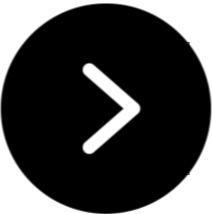
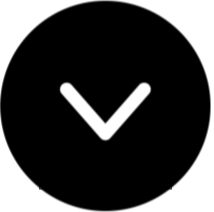
typos

diff --git a/src/components/Coding.jsx b/src/components/Coding.jsx
@@ -1,12 +1,14 @@
 import '../styles/Coding.css';
 import CarouselProjects from './CarouselProjects';
 import CallToAction from './CallToAction';
+import projects from "../assets/projects-list.json";
 import cvImage from '../assets/images/cv.png'
 import { Link } from 'react-router-dom';
-import about from '../mySelf'
+import about from '../mySelf';
 
 export default function Coding() {
 
+  const techs = [... new Set (projects.map( element => element.techs).flat())]
 
   return (
   <section className='content-page'>
@@ -14,12 +16,12 @@ export default function Coding() {
     <div className='width-content'>
     
       <div className='generic-box'>
+
         <div className='box-title'>
           About
           <Link to="/cv/coding" >     
             <img src={cvImage} className='cv-coding'/>
           </Link>
-
         </div>
       
         <div className='about-info'>
@@ -30,7 +32,7 @@ export default function Coding() {
           })
           }
 
-            <div className='info-extra'>
+          <div className='info-extra'>
               <div> <b>What I´m good at...</b>
                   <p>Logical reasoning. I like to solve problems that require creativity.</p>
                   <p>I´m not afraid to undertake complex projects and take on new challenges.</p>
@@ -38,9 +40,26 @@ export default function Coding() {
               </div>
               <div> <b>What I´m bad at...</b>
                   <p>When I speak German, the portraits of Goethe all over Germany cry out in pain.</p>
-                  <p>CSS has caused me to have numerous anger and panic attacks.</p>
+                  <p>CSS has caused me to have numerous rage attacks.</p>
               </div>
+          </div>
+
+          <div className='techs-container'>
+            Frameworks & Libraries:
+
+            <div className='techs-list'>
+              {
+              techs.map( (element, index) => {
+                return (
+                  <div className='tech-item' key={index}>
+                    {element}
+                  </div>
+                )
+              })
+              }
             </div>
+
+          </div>
           
         </div>    
         
@@ -48,8 +67,8 @@ export default function Coding() {
       </div>
 
       <div className='generic-box'>
-        <div className='box-title'>Projects</div>
-        <CarouselProjects/>
+        <div className='box-title'>Projects&nbsp;<span style={{fontSize: ".4em"}}>(sorted by complexity)</span></div>
+        <CarouselProjects projects={projects}/>
       </div>
 
       <div className='generic-box'>

diff --git a/src/components/CarouselProjects.jsx b/src/components/CarouselProjects.jsx
@@ -1,13 +1,12 @@
 import "react-responsive-carousel/lib/styles/carousel.min.css";
 import "../styles/Carousel.css";
 import { Carousel } from "react-responsive-carousel";
-import projects from "../assets/projects-list.json";
 import github from "../assets/images/github.png";
 import open from "../assets/images/open2.png";
 
 import { useEffect, useState } from "react";
 
-function CarouselProjects() {
+function CarouselProjects({projects}) {
   const [size, setSize] = useState(0);
 
   useEffect(() => {
@@ -43,7 +42,6 @@ return (
     <Carousel
       infiniteLoop={true}
       interval={5000}
-      autoPlay={true}
       stopOnHover={true}
       renderThumbs={renderThumbs}
       showStatus={false}
@@ -53,12 +51,21 @@ return (
       <div key={index} className="project-card">
         
         <div className="project-header">
+          
           <div style={{display:"flex", alignItems:""}}>
             <a href={project.deployLink} target="_blank">{project.title}</a>
             <a href={project.deployLink} target="_blank" style={{marginTop:"5px"}}><div id="open-container"><img style={{width:"100%", hight:"auto"}} src={open} alt="open-icon"/></div></a>
           </div>
 
           <a href={project.githubLink} target="_blank" id="github-container" ><img id="github-logo"src={github} alt="githubIcon"/></a>
+        </div>
+
+        <div className="slide-footer">
+            {project.techs.map( (element, index) => {
+              return (
+                <div className="tech-item" key={index}>{element}</div>
+              )
+            })}
         </div>
 
         <div className="body-project-space">
@@ -72,18 +79,15 @@ return (
               return(
                <li className="paragraph" key={index}>{paragraph}</li>
               )
-            })
+              })
             }
+            {project?.highlights && (
+              <div className="highlights"> <b>Highlights:&nbsp; </b> {project.highlights.map(element => (
+                  <>{element}. </>
+                ))}
+              </div>
+             )}
           </ul>
-
-        </div>
-
-        <div className="slide-footer">
-            {project.techs.map( (element, index) => {
-              return (
-                <div className="tech-item" key={index}>{element}</div>
-              )
-            })}
         </div>
 
       </div>

diff --git a/src/components/Academia.jsx b/src/components/Academia.jsx
@@ -38,7 +38,7 @@ export default function Academia() {
 
         <div className='personal-header' onClick={ () => {setIsAbout(prev => !prev)}}>
           <h1>About</h1>
-          <img src={arrow} className={isAbout? 'rotate-arrow': ''}/>
+          <img src={arrow} className={isAbout? 'rotate-arrow': ''} style={{transition:"1s"}}/>
           <Link to="/cv/academia" className="link-cv-academia">     
             <img src={cvImage} className='cv-academia' style={{height:"35px", width: "auto", marginTop:"15px"}} />
           </Link>
@@ -65,20 +65,20 @@ export default function Academia() {
        
         <div className='list-type-box' onClick={() => setBookOpen(prev => !prev)}>
           <h2>Books</h2>
-          <img src={arrow} className={bookOpen? "rotate-arrow": ""}/>
+          <img src={arrow} className={bookOpen? "rotate-arrow": ""} style={{transition:"1s"}}/>
         </div>
         {bookOpen && <ul>{books.map((item, index) => renderItem({ item, index }))}</ul> }
 
 
         <div className='list-type-box' onClick={() => setPeerOpen(prev => !prev)}>
           <h2>Peer-reviewed articles</h2>
-          <img src={arrow} className={peerOpen? "rotate-arrow": "" }/>
+          <img src={arrow} className={peerOpen? "rotate-arrow": "" } style={{transition:"1s"}}/>
         </div>
         {peerOpen && <ul>{peerArticles.map((item, index) => renderItem({ item, index }))}</ul> }
 
         <div className='list-type-box' onClick={() => setArticleOpen(prev => !prev)}>
           <h2>Other articles</h2>
-          <img src={arrow} className={articleOpen? "rotate-arrow": ""} />
+          <img src={arrow} className={articleOpen? "rotate-arrow": ""} style={{transition:"1s"}}/>
         </div>
         {articleOpen && <ul>{otherArticles.map((item, index) => renderItem({ item, index }))}</ul>}
 

diff --git a/src/mySelf.js b/src/mySelf.js
@@ -1,8 +1,8 @@
 const about = [
-  "Full-Stack developer with 1 year hands-on experience. I have deployed 6 web projects, combining my interests and background with my programming skills.",
-  "I am passionate about the most diverse topics: from Plato's Republic to Javascript, the functioning of the financial system or the process of monetary creation.",
+  "Full-Stack developer with 1 year hands-on experience. I have created and deployed 6 web projects.",
   "I have a master's degree in philosophy and a PhD in sociology. I love to write. I am the author of a book and several articles of political and social analysis.",
-  "Artificial intelligence made it harder for me to make a living as a sociologist, so I switched to a field where artificial intelligence will make it harder for me to make a living as a programmer.",
+  "Artificial intelligence made it harder for me to make a living as a translator, so I switched to a field where artificial intelligence will make it harder for me to make a living as a programmer.",
+  "I am passionate about the most diverse topics: from Plato's Republic to Javascript, the functioning of the financial system, cryptocurrencies or the process of monetary creation.",
 ]
 
 export default about;

diff --git a/src/styles/Carousel.css b/src/styles/Carousel.css
@@ -3,6 +3,9 @@
   background-color: #0d1121;
 }
 
+.project-card {
+  padding-bottom: 30px;
+}
 .project-header {
   position: relative;
   font-size: 30px;
@@ -56,7 +59,6 @@
   color: white;
   line-height: 1.5;
   font-weight: 300;
-  margin-top: 20px;
 }
 
 .image-project-container {
@@ -91,16 +93,24 @@
   }
 }
 
+.highlights {
+  display: flex;
+  margin: 10px 0 10px -20px; 
+  font-weight: 200;
+}
+
 .slide-footer {
   display: flex;
   flex-wrap: wrap;
   justify-content: end;
-  padding: 0 10px 30px 10px;
+  padding: 0 10px 0px 10px;
   margin: 5px 0;
+  font-size: 1em;
+  font-weight: 300;
 }
 
 .tech-item {
-  padding: 4px 10px;
+  padding: 0px 10px;
   font-size: 14px;
   background-color: #036BDF;
   color: white;
@@ -126,8 +136,6 @@
     width: 10px;
     margin-left: 3px;
     margin-top: -3px;
-
-
   }
   #github-logo {
     height: 20px;
@@ -155,6 +163,13 @@
     font-size: 11px;
     padding: 2px 5px;
   }
-  
+}
+
+@media screen and (max-width:770px) {
+  .tech-item {
+    font-size: 10px;
+    padding: 1px 3px;
+  }
+
 
 }

diff --git a/src/styles/Coding.css b/src/styles/Coding.css
@@ -11,8 +11,8 @@
 .box-title {
   margin-bottom: 10px;
   display: flex;
-  align-items: end;
-  font-size: 40px;
+  align-items: last baseline;
+  font-size: 50px;
   font-weight: 400;
 }
 .box-title h1 {
@@ -51,6 +51,16 @@
 .info-extra p {
   margin: 10px 20px;
   font-size: 18px;
+}
+.techs-container {
+  margin-top: 10px;
+  font-weight: 700;
+}
+.techs-list {
+  margin-top: 0px;
+  display: flex;
+  flex-wrap: wrap;
+  font-weight: 100;
 }
 
 .carousel-container {
@@ -129,6 +139,9 @@
 }
 
 @media screen and (max-width: 600px) {
+  .box-title{
+    font-size: 30px;
+  }
   .input-wrap {
     display: block;
   }

diff --git a/src/index.css b/src/index.css
@@ -45,7 +45,7 @@ body {
 
 .side-open {
   flex-direction: column;
-  background-color: #170037;
+  background-color: #46e70246;
   padding: 0 10px;
   transform: translate(10px, -10px);
 }

diff --git a/src/styles/Academia.css b/src/styles/Academia.css
@@ -85,8 +85,9 @@ h6 {
   margin-left: 15px;
   padding-top: 3px;
 }
+
 .rotate-arrow {
-  transform: rotate(90deg);
+  transform: rotate(180deg);
 }
 
 .publication-item a {
